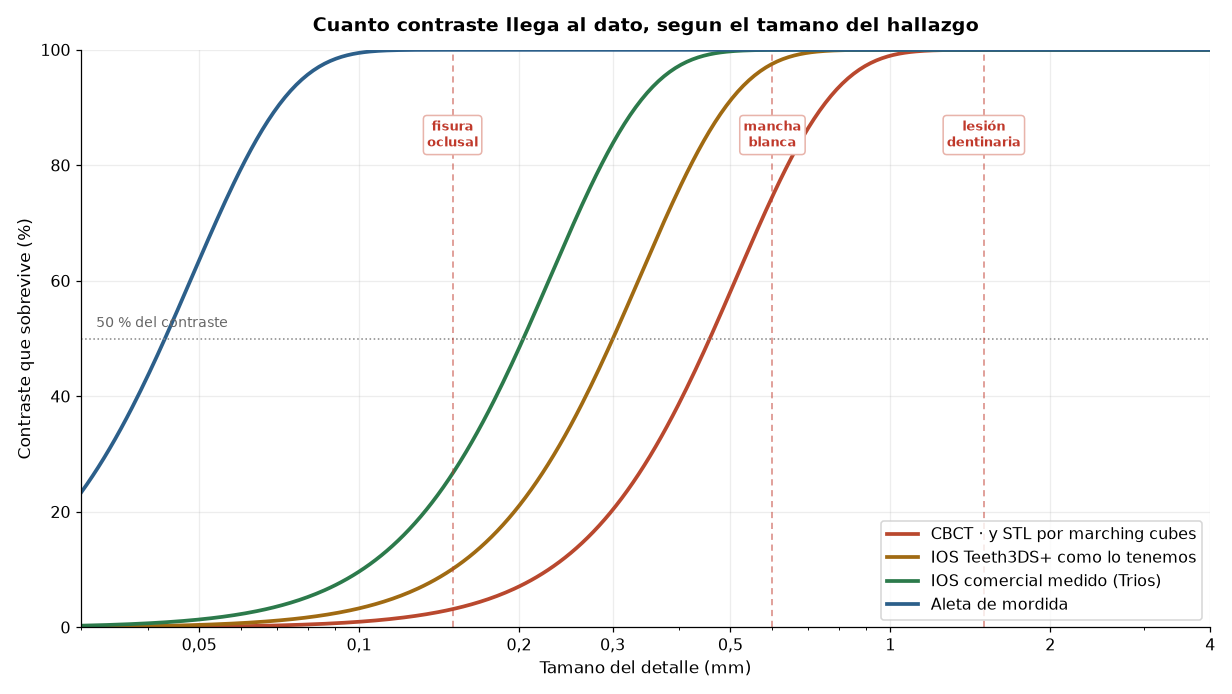
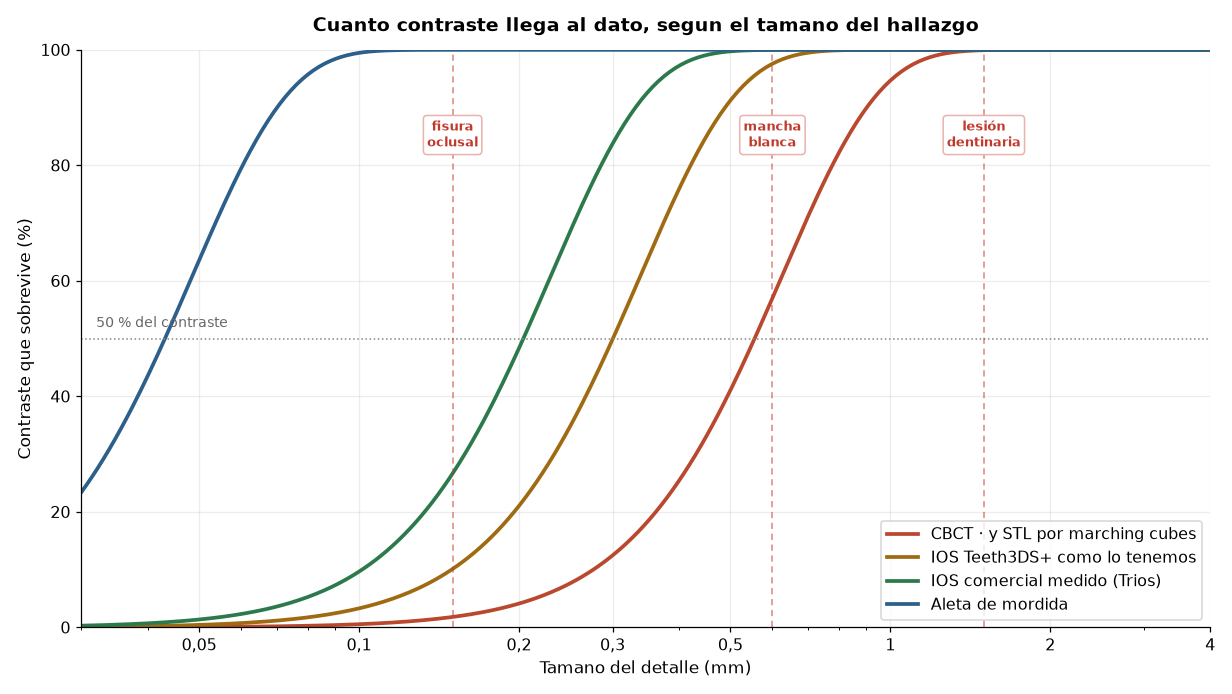
feat(resolucion): PSF y ruido medidos del CS 9600 en vez de supuestos

diff --git a/scripts/resolucion_modalidades.py b/scripts/resolucion_modalidades.py
@@ -14,11 +14,11 @@ modela explícitamente (PSF gaussiana → muestreo al paso de la modalidad → r
 de modo que el panel de 3DGS salga de **los mismos datos** que el de CBCT y se vea
 que la suavidad no añade información.
 
-**Qué es supuesto y qué es derivado.** La PSF (FWHM 0,35 mm ≈ 1,5 pl/mm) y el ruido
-(200 HU) son supuestos plausibles de un CBCT dental, **no calibrados** contra un
-equipo concreto: cámbialos aquí si tienes medidas de fantoma. El contraste que
-sobrevive, en cambio, es forma cerrada — el valor central de una esfera
-convolucionada con una gaussiana— y no depende de ningún ajuste.
+**Qué es medido y qué es derivado.** La PSF (FWHM 0,425 mm ≈ 1,18 pl/mm) y el ruido
+(47 HU) están **medidos sobre el CBCT real** de `data/raw/histora` — un Carestream
+CS 9600 — así que la simulación describe un equipo concreto y no un CBCT genérico.
+El contraste que sobrevive es forma cerrada: el valor central de una esfera
+convolucionada con una gaussiana, sin ningún ajuste.
 
 El muestreo de 0,23 mm del IOS sale de las mallas reales de Teeth3DS+ (mediana de
 116 k vértices sobre ~6000 mm² de arcada), no de la ficha del fabricante.
@@ -40,7 +40,19 @@ from scipy.special import erf  # noqa: E402
 DESTINO = Path(__file__).resolve().parent.parent / "docs" / "research"
 
 FINO, LADO = 0.01, 9.0  # mm/px de la verdad-terreno · lado del parche
-PSF_CBCT, RUIDO_CBCT = 0.35, 200.0  # FWHM en mm · desviación típica en HU
+
+# PSF y ruido **medidos** sobre el CBCT real de `data/raw/histora` (Carestream
+# CS 9600, 578 cortes, vóxel 0,30 mm) — ya no son supuestos. La PSF sale de ajustar
+# una erf a ~800 perfiles perpendiculares a bordes de alto contraste; el ruido, de
+# la desviación robusta entre vóxeles vecinos dentro de tejido homogéneo.
+#
+# Se toma la ventana de **bajo contraste** (tejido↔hueso) como PSF del sistema: las
+# de esmalte y metal salen peores (0,567 y 0,611 mm) porque llevan endurecimiento de
+# haz dentro, que es artefacto y no óptica. Y el ruido de hueso trabecular en vez del
+# de tejido blando (14,7 HU) porque es el tejido que rodea a los dientes.
+PSF_CBCT, RUIDO_CBCT = 0.425, 47.0  # FWHM en mm · desviación típica en HU
+PSF_MEDIDAS = {"tejido↔hueso": 0.425, "aire↔esmalte": 0.567, "metal": 0.611}
+RUIDO_MEDIDO = {"tejido blando": 14.7, "hueso trabecular": 47.2}
 RUIDO_ALETA = 60.0
 
 # Superficies de referencia para traducir pt/mm² a cifras que signifiquen algo:
@@ -143,7 +155,8 @@ def figura_paneles(destino: Path) -> None:
     ca, ka = muestrear(dens, 0.033, fwhm=0.033, ruido=RUIDO_ALETA, semilla=2)
 
     paneles = [
-        ("CBCT · y el STL que sale de él", "0,30 mm · PSF 0,35 · ruido 200 HU", "11 pt/mm²",
+        ("CBCT · y el STL que sale de él",
+         "0,30 mm · PSF 425 µm · ruido 47 HU (medidos)", "11 pt/mm²",
          _expandir(_gris(c30), k30), "#b9482e"),
         # Mismos datos que el panel de arriba, solo que interpolados: es la
         # demostración de que suavizar no añade información.
@@ -304,6 +317,27 @@ def tabla_puntos() -> None:
     print(f"  y en ambos casos, {capas} capas más hacia dentro que ninguna malla tiene.")
 
 
+def tabla_resolucion_cbct() -> None:
+    """Lo que el CBCT muestrea frente a lo que de verdad resuelve.
+
+    En mm y micras, que es como se mide la resolución — no en puntos. Son dos
+    magnitudes distintas: el **vóxel** es el paso de muestreo, elegido al
+    reconstruir; la **FWHM** es lo que la óptica del equipo puede separar. El
+    CS 9600 muestrea más fino de lo que resuelve, que es buena práctica contra el
+    *aliasing*, pero significa que el vóxel sobrestima lo que el equipo mide.
+    """
+    voxel = MODALIDADES[0][3]
+    print(f"\n{'':<34}{'mm':>8}{'µm':>8}{'pl/mm':>9}")
+    print("-" * 59)
+    print(f"{'MUESTREA (vóxel del CS 9600)':<34}{voxel:>8.3f}{voxel * 1000:>8.0f}"
+          f"{1 / (2 * voxel):>9.2f}")
+    for nombre, fwhm in PSF_MEDIDAS.items():
+        print(f"{'RESUELVE · ' + nombre:<34}{fwhm:>8.3f}{fwhm * 1000:>8.0f}"
+              f"{1 / (2 * fwhm):>9.2f}")
+    print(f"\n  la resolución real es {PSF_CBCT / voxel:.2f}× más gruesa que el vóxel")
+    print("  ruido medido: " + " · ".join(f"{k} {v} HU" for k, v in RUIDO_MEDIDO.items()))
+
+
 def tabla_marching_cubes(voxeles: tuple[float, ...] = (0.40, 0.30, 0.20, 0.10)) -> None:
     """Qué espaciado de puntos da un STL extraído del CBCT con marching cubes.
 
@@ -334,7 +368,8 @@ def tabla_marching_cubes(voxeles: tuple[float, ...] = (0.40, 0.30, 0.20, 0.10)) 
         V = ns.vtk_to_numpy(poly.GetPoints().GetData())
         F = ns.vtk_to_numpy(poly.GetPolys().GetConnectivityArray()).reshape(-1, 3)
         t = V[F]
-        area = float(np.linalg.norm(np.cross(t[:, 1] - t[:, 0], t[:, 2] - t[:, 0]), axis=1).sum() / 2)
+        cruz = np.cross(t[:, 1] - t[:, 0], t[:, 2] - t[:, 0])
+        area = float(np.linalg.norm(cruz, axis=1).sum() / 2)
         e = np.vstack([V[F[:, 0]] - V[F[:, 1]], V[F[:, 1]] - V[F[:, 2]], V[F[:, 2]] - V[F[:, 0]]])
         L = np.linalg.norm(e, axis=1)
         print(f"{v:>7.2f}{len(V):>11,}{area:>11,.0f}{np.median(L[L > 0]):>15.3f} mm")
@@ -346,6 +381,7 @@ def main() -> None:
     figura_curva(DESTINO / "resolucion-modalidades-curva.png")
     print(f"Figuras escritas en {DESTINO}")
     tabla_puntos()
+    tabla_resolucion_cbct()
     tabla_marching_cubes()
     tabla()
 
